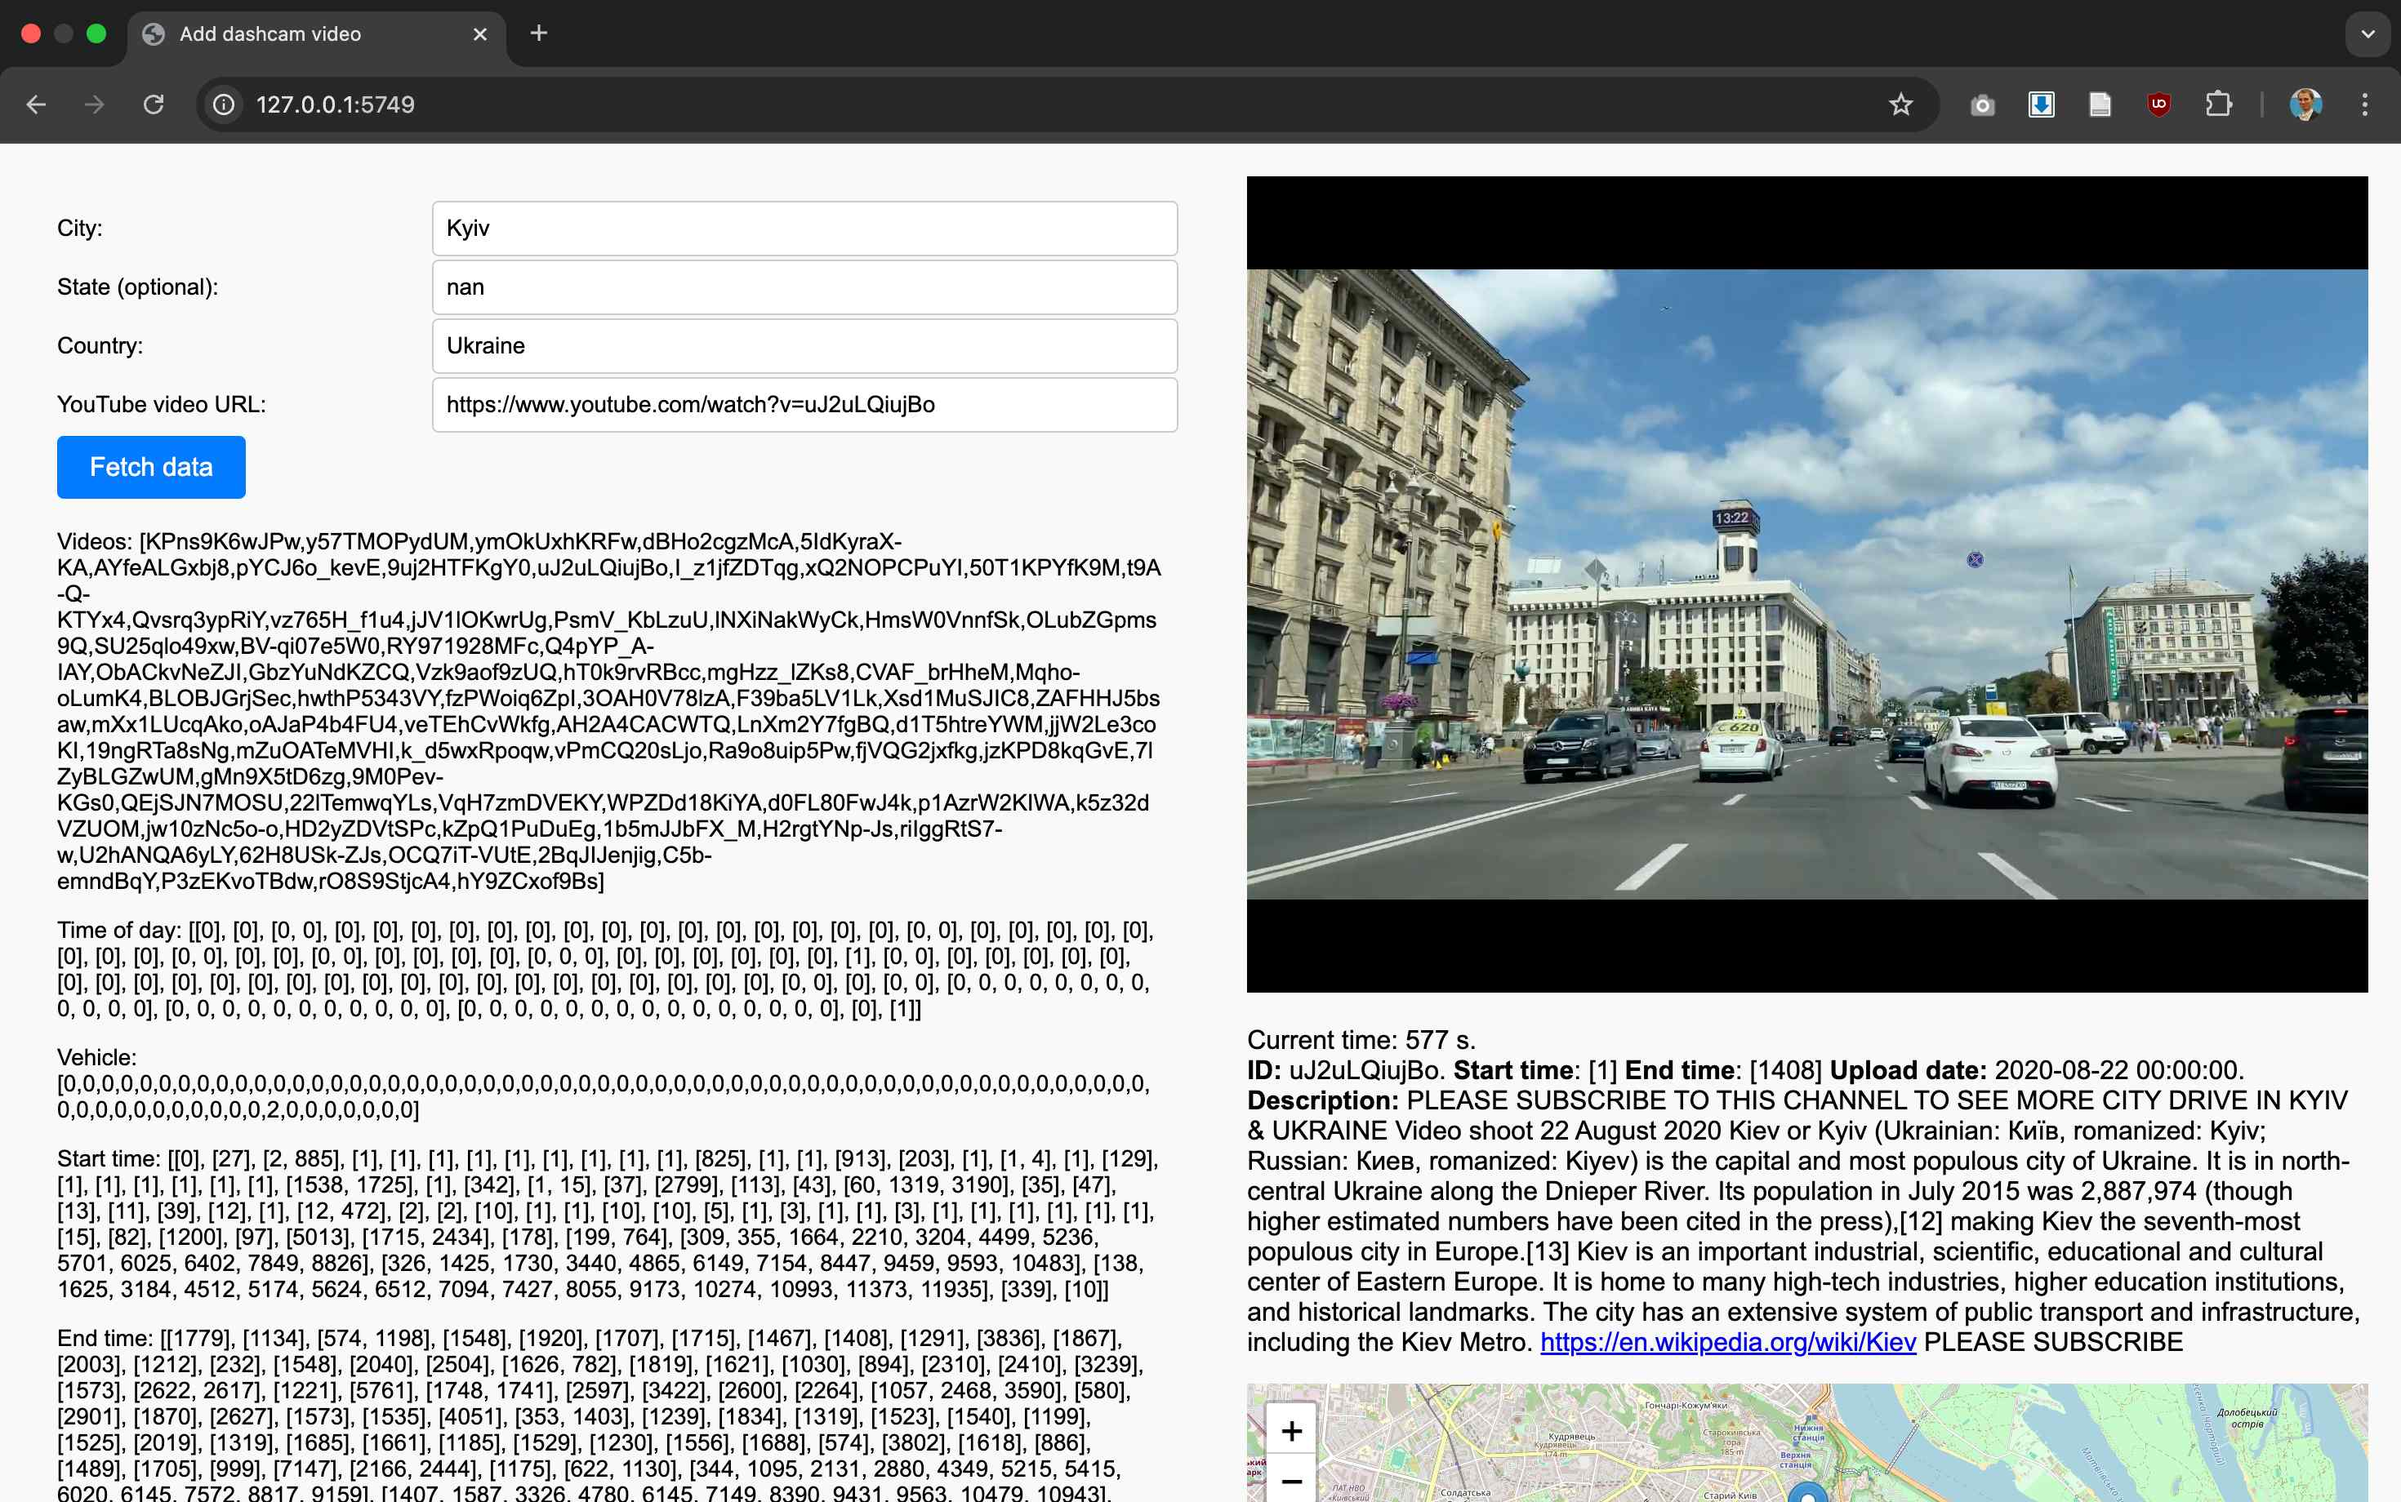
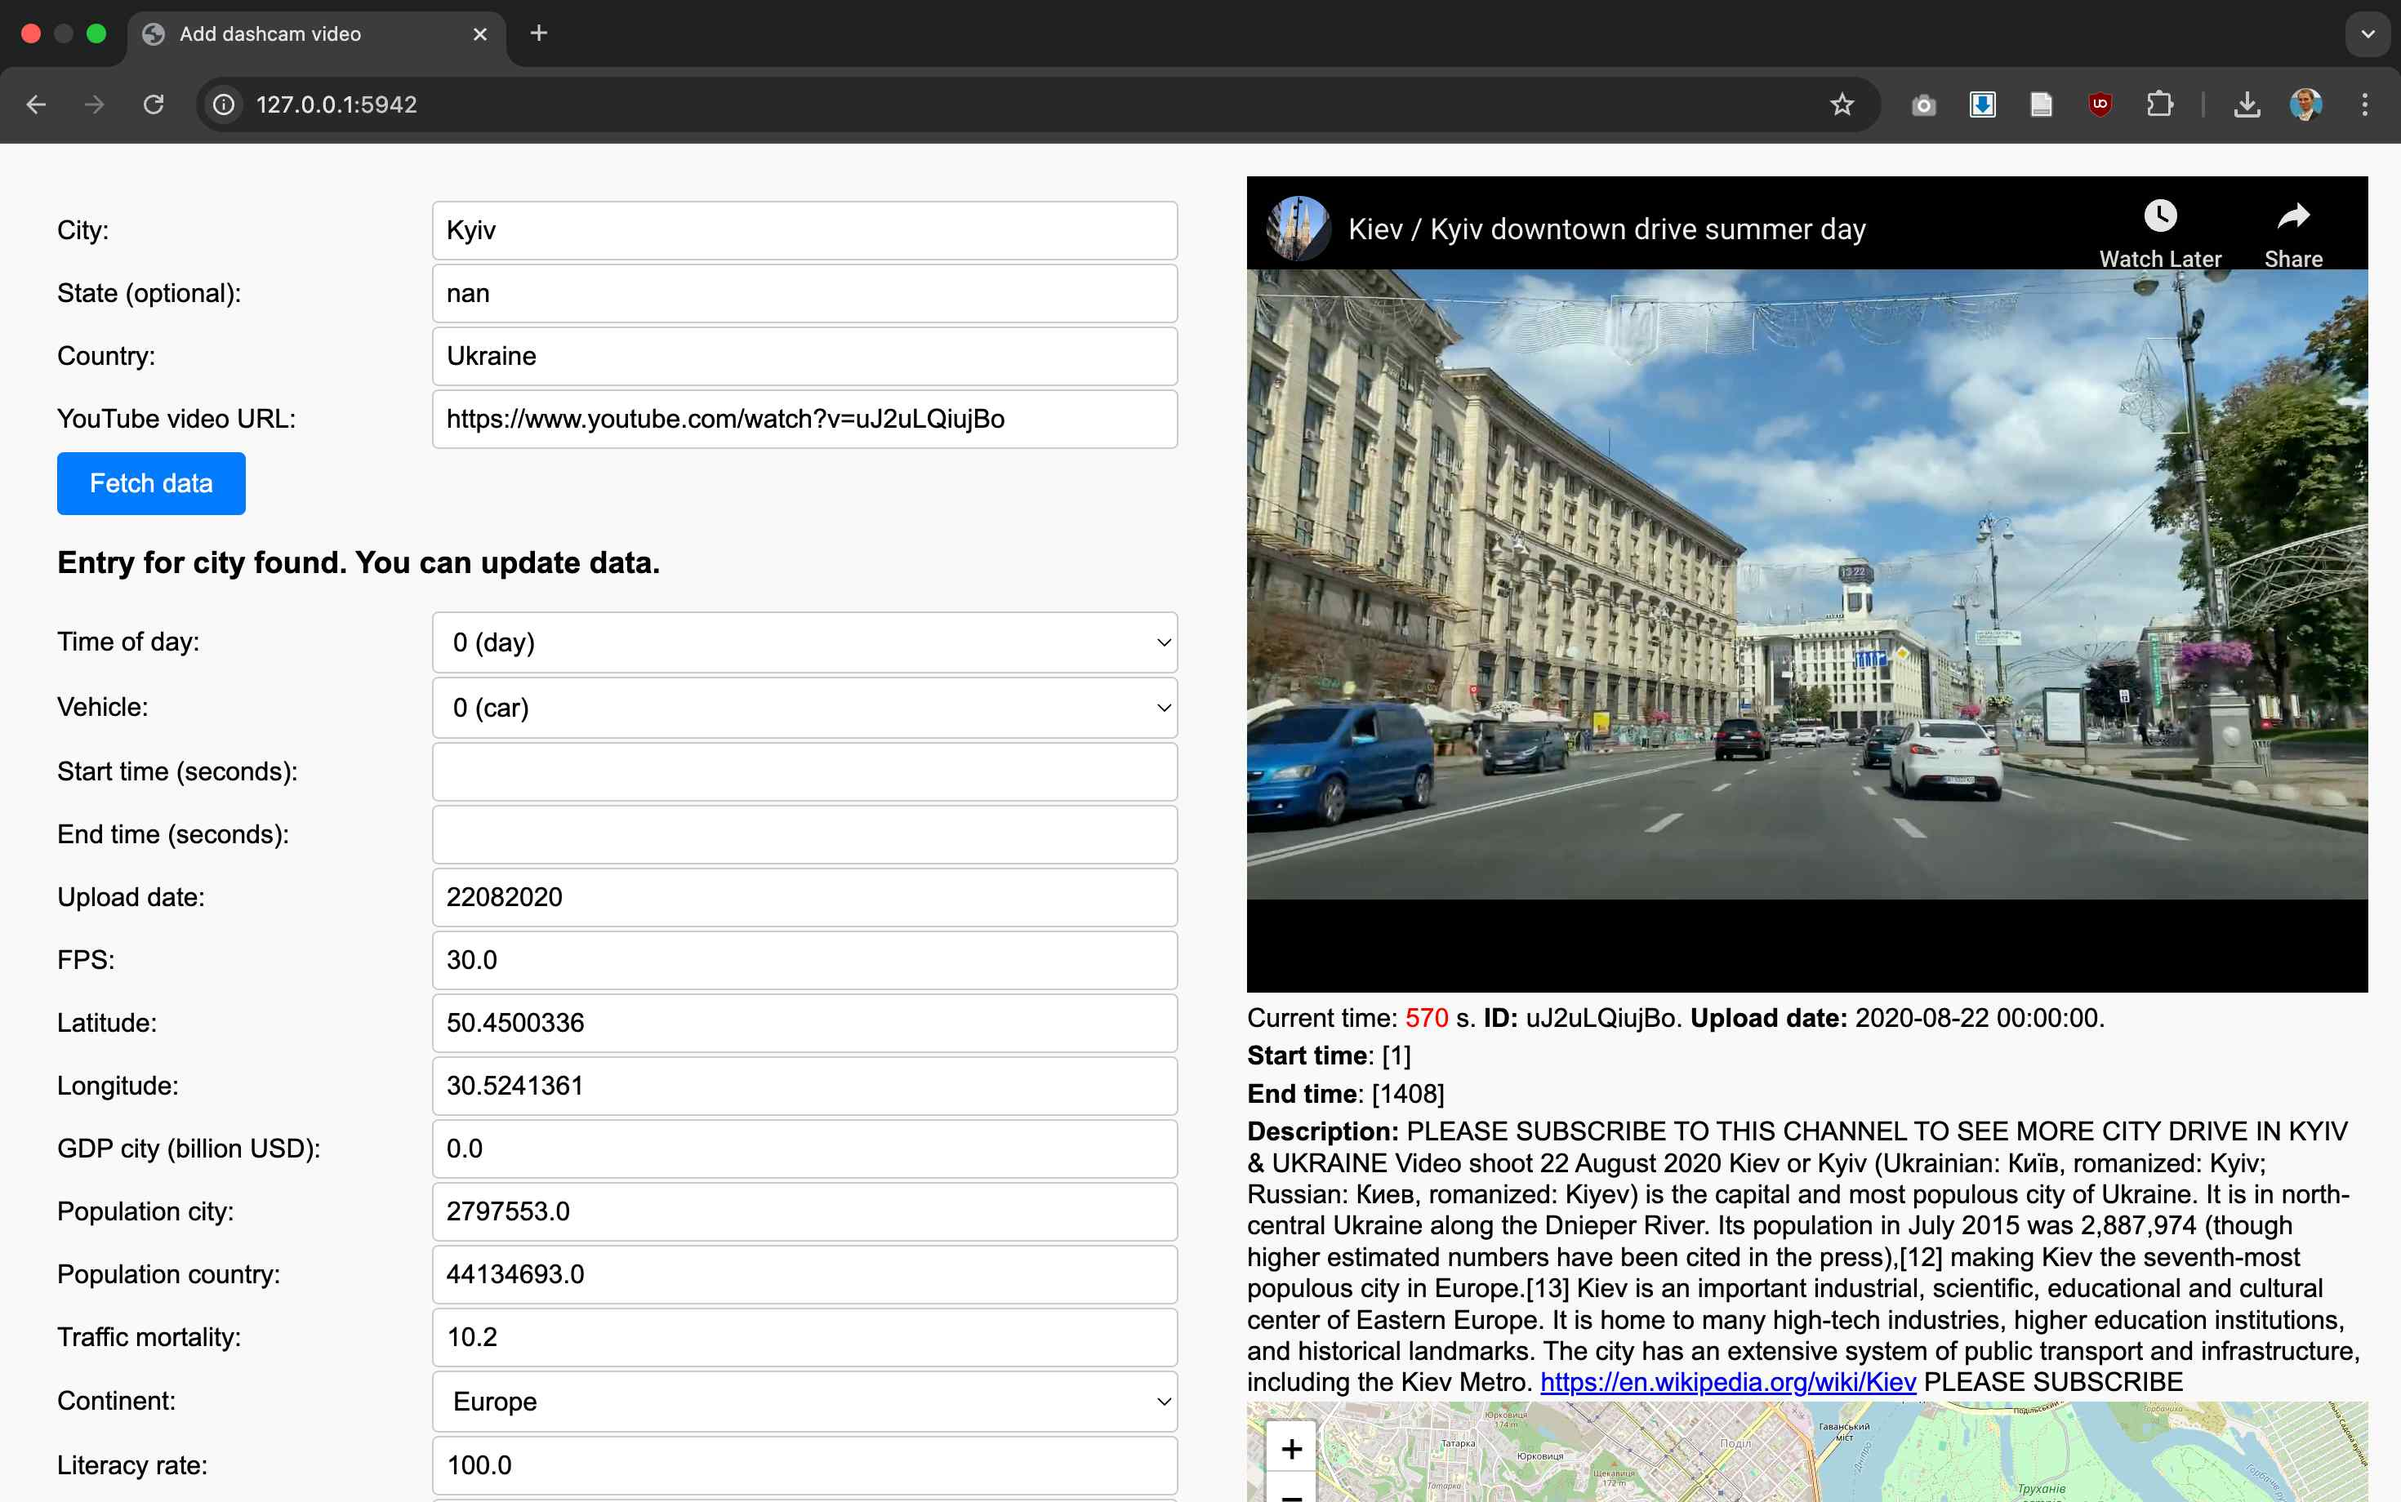
Readme figures

diff --git a/templates/add_video.html b/templates/add_video.html
@@ -116,6 +116,10 @@
             overflow: hidden; /* prevent text overflow */
 /*            max-height: 20px; /* optional: limit max height */*/
         }
+
+        #currentTime {
+            color: red;
+        }
     </style>
     <script src="https://www.youtube.com/iframe_api"></script>
     <script>
@@ -365,7 +369,6 @@
                 <div class="form-group">
                     <button type="submit" name="submit_data">Submit</button>
                 </div>
-
                 <p class="videos-text"><strong>Videos:</strong> {{ existing_data['videos'] }}</p>
                 <p class="videos-text"><strong>Time of day:</strong> {{ existing_data['time_of_day'] }}</p>
                 <p class="videos-text"><strong>Vehicle:</strong> {{ existing_data['vehicle_type'] }}</p>
@@ -381,12 +384,9 @@
             {% if video_id %}
                 <!-- Embed the YouTube video only if a valid video ID is available -->
                 <iframe id="embeddedVideo" src="https://www.youtube.com/embed/{{ video_id }}?start={{ timestamp }}&enablejsapi=1&autoplay=1&mute=1" frameborder="0" allowfullscreen allow="autoplay"></iframe>
-                <p class="short_row">Current time: <span id="currentTime">0</span> s.</br>
-                <p class="short_row"><strong>ID:</strong> <span id="videoTitle">{{ video_id }}</span>.</br>
-                <p class="short_row"><strong>Start time</strong>: {{ start_time_video }}</br>
-                <p class="short_row"><strong>End time</strong>: {{ end_time_video }}</br>
-                <!-- <p><strong>Title:</strong> <span id="videoTitle">{{ yt_title }}</span>.</br> -->
-                <p class="short_row"><strong>Upload date:</strong> <span id="videoUploadDate">{{ yt_upload_date }}</span>.</br>
+                <p class="short_row">Current time: <span id="currentTime">0</span> s. <strong>ID:</strong> <span id="videoTitle">{{ video_id }}</span>. <strong>Upload date:</strong> <span id="videoUploadDate">{{ yt_upload_date }}</span>.</p>
+                <p class="short_row"><strong>Start time</strong>: {{ start_time_video }}</p>
+                <p class="short_row"><strong>End time</strong>: {{ end_time_video }}</p>
                 <p class="short_row"><strong>Description:</strong> <span id="videoDescription">{{ yt_description }}</span></p>
                 <!-- Map -->
                 <div id="map"></div>

diff --git a/add_video.py b/add_video.py
@@ -121,6 +121,7 @@ def form():
             else:
                 existing_data = df[(df['city'] == city) & (df['country'] == country)]
             if not existing_data.empty:
+                message = "Entry for city found. You can update data."
                 existing_data_row = existing_data.iloc[0].to_dict()  # Convert to dictionary
                 state = existing_data_row.get('state', '')
 
@@ -142,7 +143,7 @@ def form():
                     end_time_list = ast.literal_eval(existing_data_row.get('end_time', ''))
                     end_time_video = end_time_list[position]
             else:
-                message = "No existing entry found. You can add new data."
+                message = "No entry for city found. You can add new data."
                 iso2_code = common.get_iso2_country_code(common.correct_country(country))
                 iso3_code = common.get_iso3_country_code(common.correct_country(country))
                 country_data = get_country_data(iso3_code)

diff --git a/README.md b/README.md
@@ -108,7 +108,7 @@ If the city already exists in data, the form extends the entry for that city wit
 ## Example of YOLO running on a dashcam video
 
 <a href="https://youtu.be/NipvoDg0Nyk">
-  <img src="./readme/output_gif.gif" width="100%" />
+  <img src="./readme/output.gif" width="100%" />
 </a>
 
 Video: [https://www.youtube.com/watch?v=_Wyg213IZDI](https://www.youtube.com/watch?v=_Wyg213IZDI).
@@ -124,7 +124,7 @@ Video: [https://www.youtube.com/watch?v=0K9vaQxKZ9k](https://www.youtube.com/wat
 
 ### Snippets of videos are not analysed during the movement of camera
 <a href="https://youtu.be/3jVszt_78_k">
-  <img src="./readme/camera_mov.gif" width="100%" />
+  <img src="./readme/camera_move.gif" width="100%" />
 </a>
 
 Video: [https://www.youtube.com/watch?v=3jVszt_78_k](https://www.youtube.com/watch?v=3jVszt_78_k).
